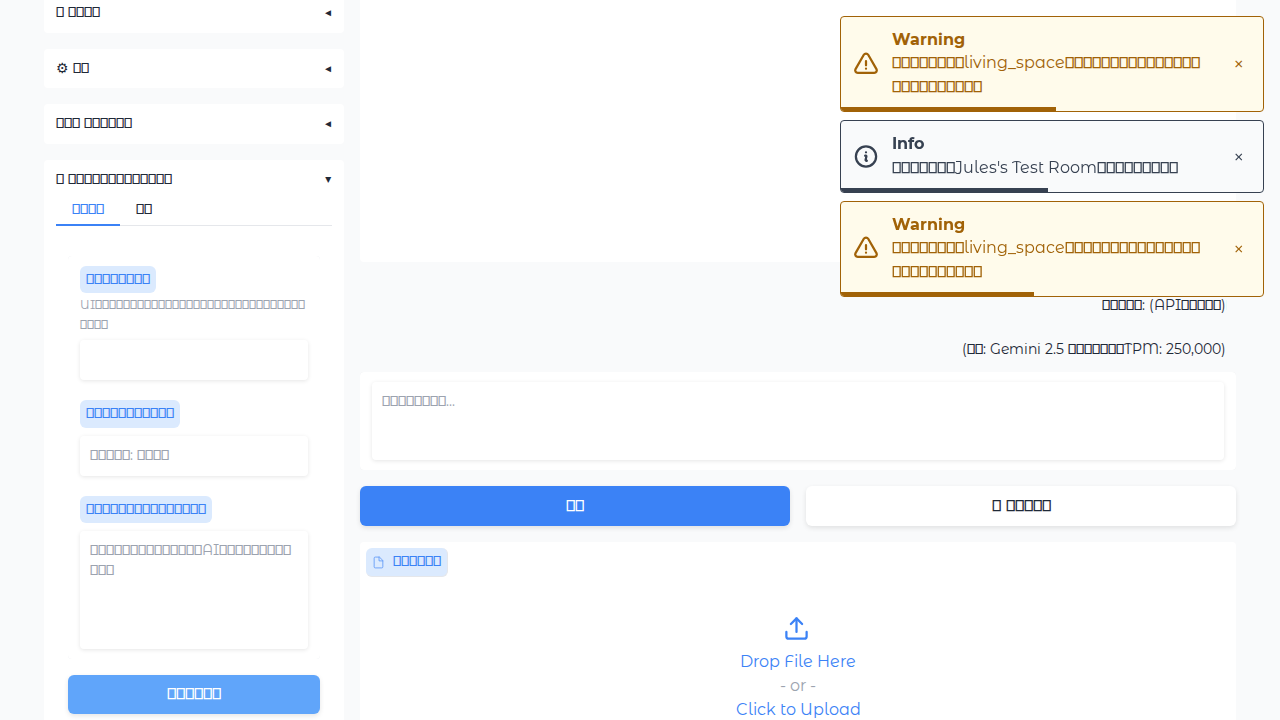
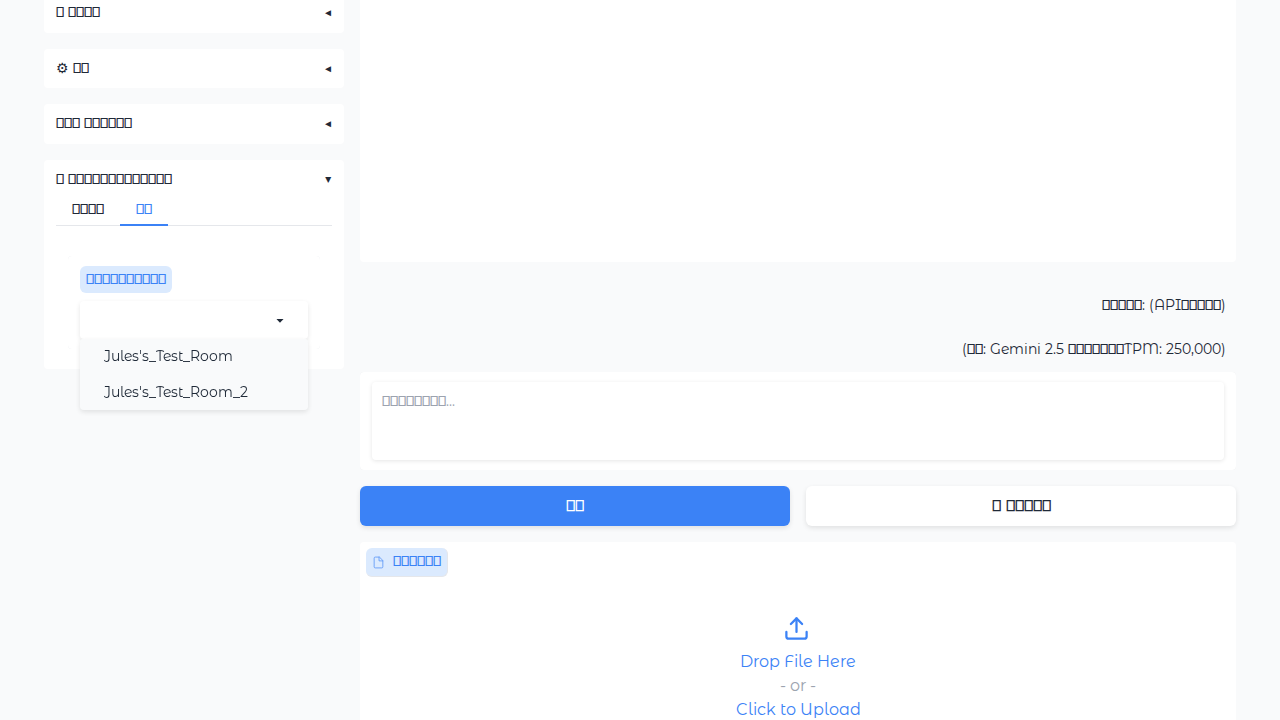
feat: Implement chat room creation and management functionality
This commit fully implements the UI features for chat room creation and management within the "チャットルームの作成・管理" accordion, as per the project request.

Key implementations:

1.  **`room_manager.py` Enhancement:**
    -   Added `generate_safe_folder_name` to create unique, filesystem-safe folder names from user input.
    -   Refactored `get_room_list` to scan the `characters` directory and return a list of (display\_name, folder\_name) tuples for all valid rooms, improving UI consistency.
    -   Overhauled `ensure_room_files` to correctly generate all necessary files and directories for a new room with specified initial content.

2.  **`ui_handlers.py` Implementation:**
    -   Implemented four main event handlers:
        -   `handle_create_room`: Manages the entire room creation process, from input validation to file generation and UI updates.
        -   `handle_manage_room_select`: Populates the management form with the selected room's data.
        -   `handle_save_room_config`: Saves updated room configurations and refreshes UI dropdowns.
        -   `handle_delete_room`: Handles complete deletion of a room and updates the UI accordingly.

3.  **`nexus_ark.py` Integration & Bug Fixes:**
    -   Connected the new UI handlers to the corresponding Gradio components.
    -   Corrected a critical bug in the application's startup logic to properly handle the new data structure from `get_room_list`.
[…]

diff --git a/nexus_ark.py b/nexus_ark.py
@@ -250,6 +250,7 @@ try:
                                         manage_folder_name_display = gr.Textbox(label="フォルダ名（編集不可）", interactive=False)
                                         save_room_config_button = gr.Button("変更を保存", variant="primary")
                                         delete_room_button = gr.Button("このルームを削除", variant="stop")
+                                        delete_confirm_state = gr.Textbox(visible=False)
 
                     with gr.Column(scale=3):
                         chatbot_display = gr.Chatbot(height=600, elem_id="chat_output_area", show_copy_button=True, show_label=False)
@@ -479,17 +480,24 @@ try:
             outputs=[room_dropdown, manage_room_selector]
         )
 
+        # 2-step delete process
         delete_room_button.click(
+            fn=None,
+            inputs=None,
+            outputs=delete_confirm_state,
+            js="() => confirm('本当にこのルームを削除しますか？この操作は取り消せません。')"
+        )
+
+        delete_confirm_state.change(
             fn=ui_handlers.handle_delete_room,
-            inputs=[manage_folder_name_display],
+            inputs=[manage_folder_name_display, delete_confirm_state],
             outputs=[
                 room_dropdown,
                 manage_room_selector,
                 alarm_room_dropdown,
                 timer_room_dropdown,
                 manage_room_details
-            ],
-            js="() => confirm('本当にこのルームを削除しますか？この操作は取り消せません。')"
+            ]
         )
 
         chat_submit_outputs = [

diff --git a/ui_handlers.py b/ui_handlers.py
@@ -574,12 +574,14 @@ def handle_save_room_config(folder_name: str, room_name: str, user_display_name:
         traceback.print_exc()
         return gr.update(), gr.update()
 
-def handle_delete_room(folder_name_to_delete: str, confirmed: bool):
+def handle_delete_room(folder_name_to_delete: str, confirmed: str):
     """
     「管理」タブの削除ボタンのロジック。
     ルームのフォルダを完全に削除する。
     """
-    if not confirmed:
+    # The 'confirmed' value from JS will be a string "true" or "false", or None
+    if str(confirmed).lower() != "true":
+        # ユーザーがキャンセルを押したか、予期せぬ値が来た場合は何もしない
         return gr.update(), gr.update(), gr.update(), gr.update(), gr.update()
 
     if not folder_name_to_delete:
